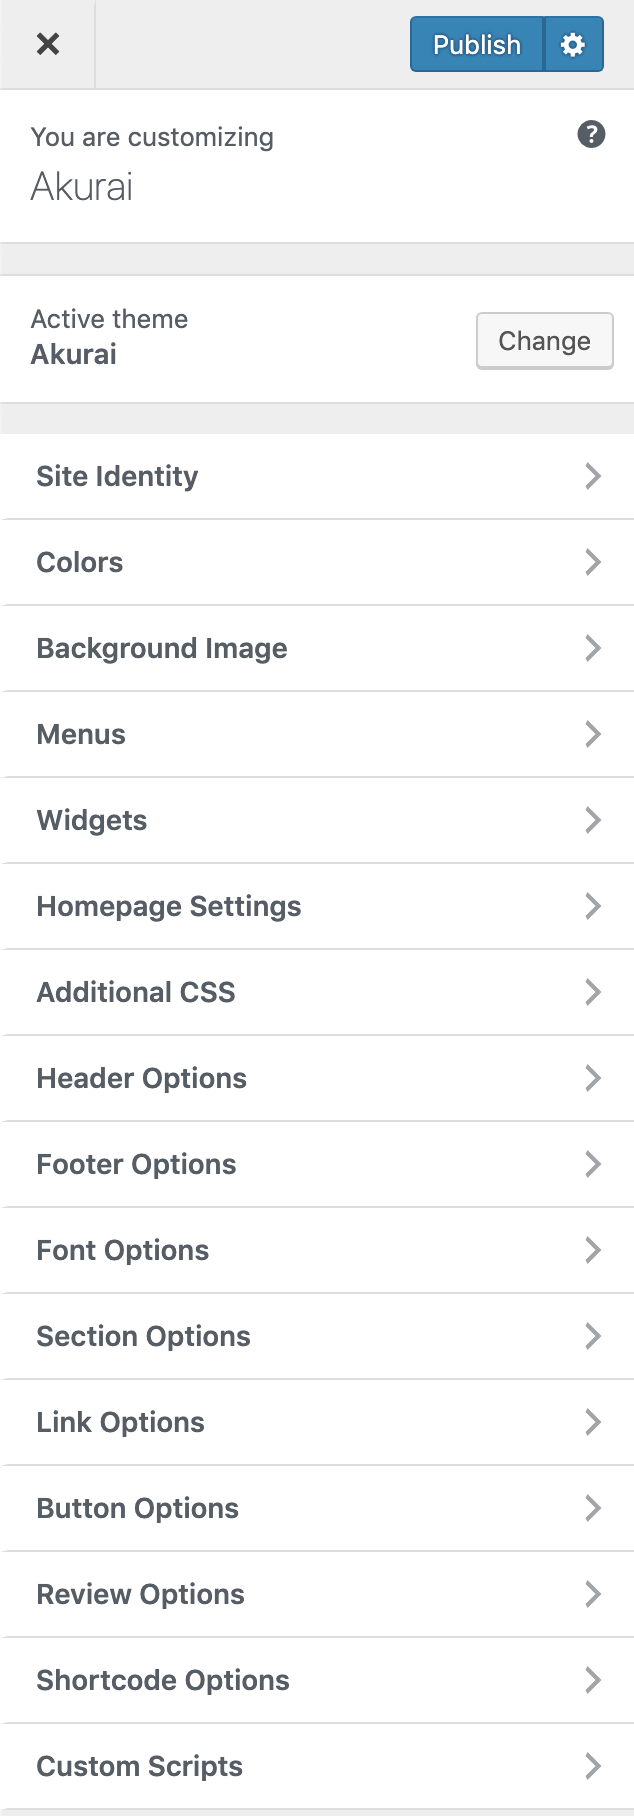
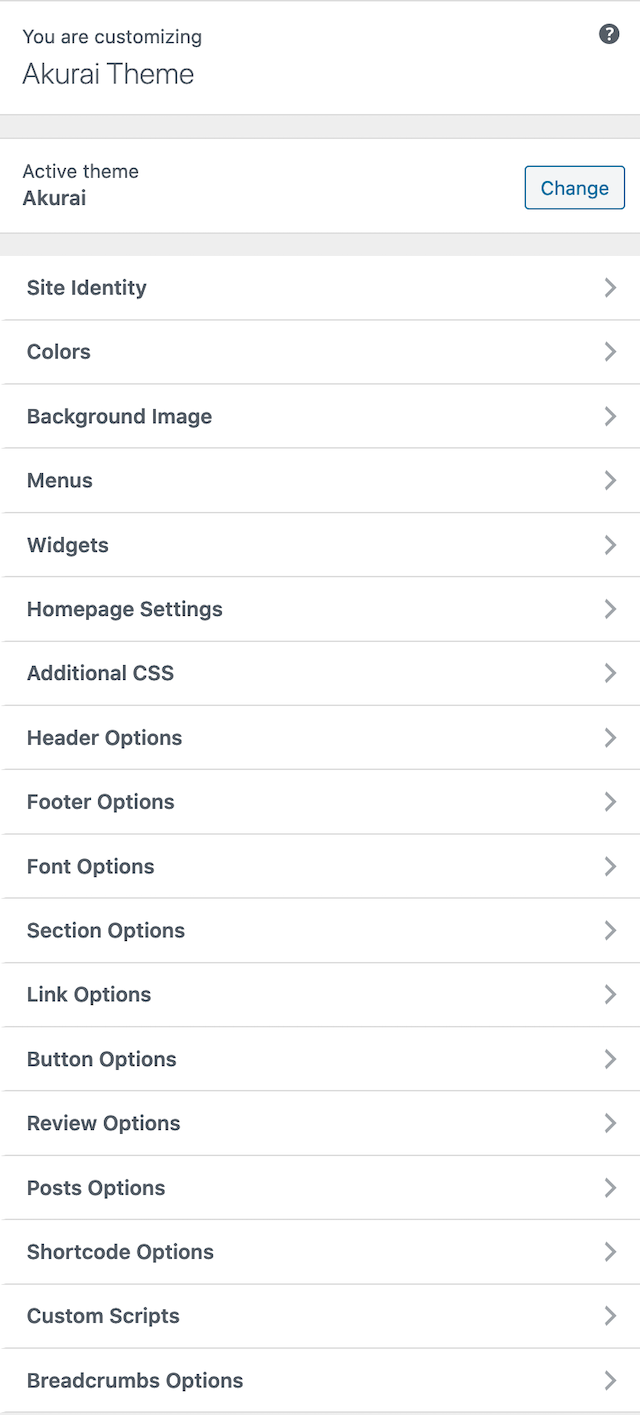
akurai 2.0.1

diff --git a/config.php b/config.php
@@ -17,7 +17,7 @@ return [
 
     // versions
     'versions' => [
-        'akurai'       => '2.0.0',
+        'akurai'       => '2.0.1',
         'sikika'       => '1.0.2',
         'spinoko'      => '1.0.4',
         'kemoku'       => '1.0.6',

diff --git a/source/docs/akurai/blocks-shortcodes.md b/source/docs/akurai/blocks-shortcodes.md
@@ -210,6 +210,26 @@ Select or upload an image, set the alt text and you're ready.
 You can specify any CSS class names you want to add to the `img` tag
 Also select the shape of the image, whether it's wide, tall or square. This helps reserve space similar to the image and not cause document "rearrangement".
 
+### Links Group Block
+
+`💁 since version 2.0.1`
+
+![akurai-blocks-lazy-image](/assets/images/akurai/akurai-blocks-links-group.png)
+
+To add a new links group simply click on the **+** (Add block) sign and select **Links Group** in **Akurai Blocks** section.
+
+
+Select the links that can be posts, pages or reviews. If you want you can overwrite the titles and featured images.
+At the bottom, adjust the column count (2, 3, 4), whether the blog is contained in a section or not, rounded or straight image borders to fit with your website styles and finally you can disable the captions/titles.
+
+You can use this for posts, pages, reviews or as a mix of all, as you find it useful.
+
+![akurai-blocks-lazy-image](/assets/images/akurai/akurai-blocks-editor-links-group.png)
+
+At the right side panel you can click on Switch to Preview to preview the slider block in your editor.
+
+> Note that the preview may differ a little from the actual block as some WordPress and other plugin styles may be affecting it.
+
 ---
 
 ### Next Step

diff --git a/source/docs/akurai/customizations.md b/source/docs/akurai/customizations.md
@@ -79,6 +79,15 @@ A plenty of options related to reviews and review pages. You can specify Hero & 
 ![customizer-review-options](/assets/images/akurai/customizer/review-options.png)
 ![customizer-review-options-2](/assets/images/akurai/customizer/review-options-2.png)
 
+### Posts Options
+
+Several options related to posts, blog and archive pages.
+First of all, you can disable featured images on single post pages. You can disable post meta data above the content (author, date) and below it (categories, tags, comments count) - this will affect not only single posts, but also blog page and archive pages such as category and tag pages.
+
+You can also customize the layout of the blog page, by choosing to display it in a 2 column grid.
+
+![customizer-posts-options](/assets/images/akurai/customizer/posts-options.png)
+
 ### Shortcode Options
 
 Specify shortcode options such as anchor texts and the number of review stars.
